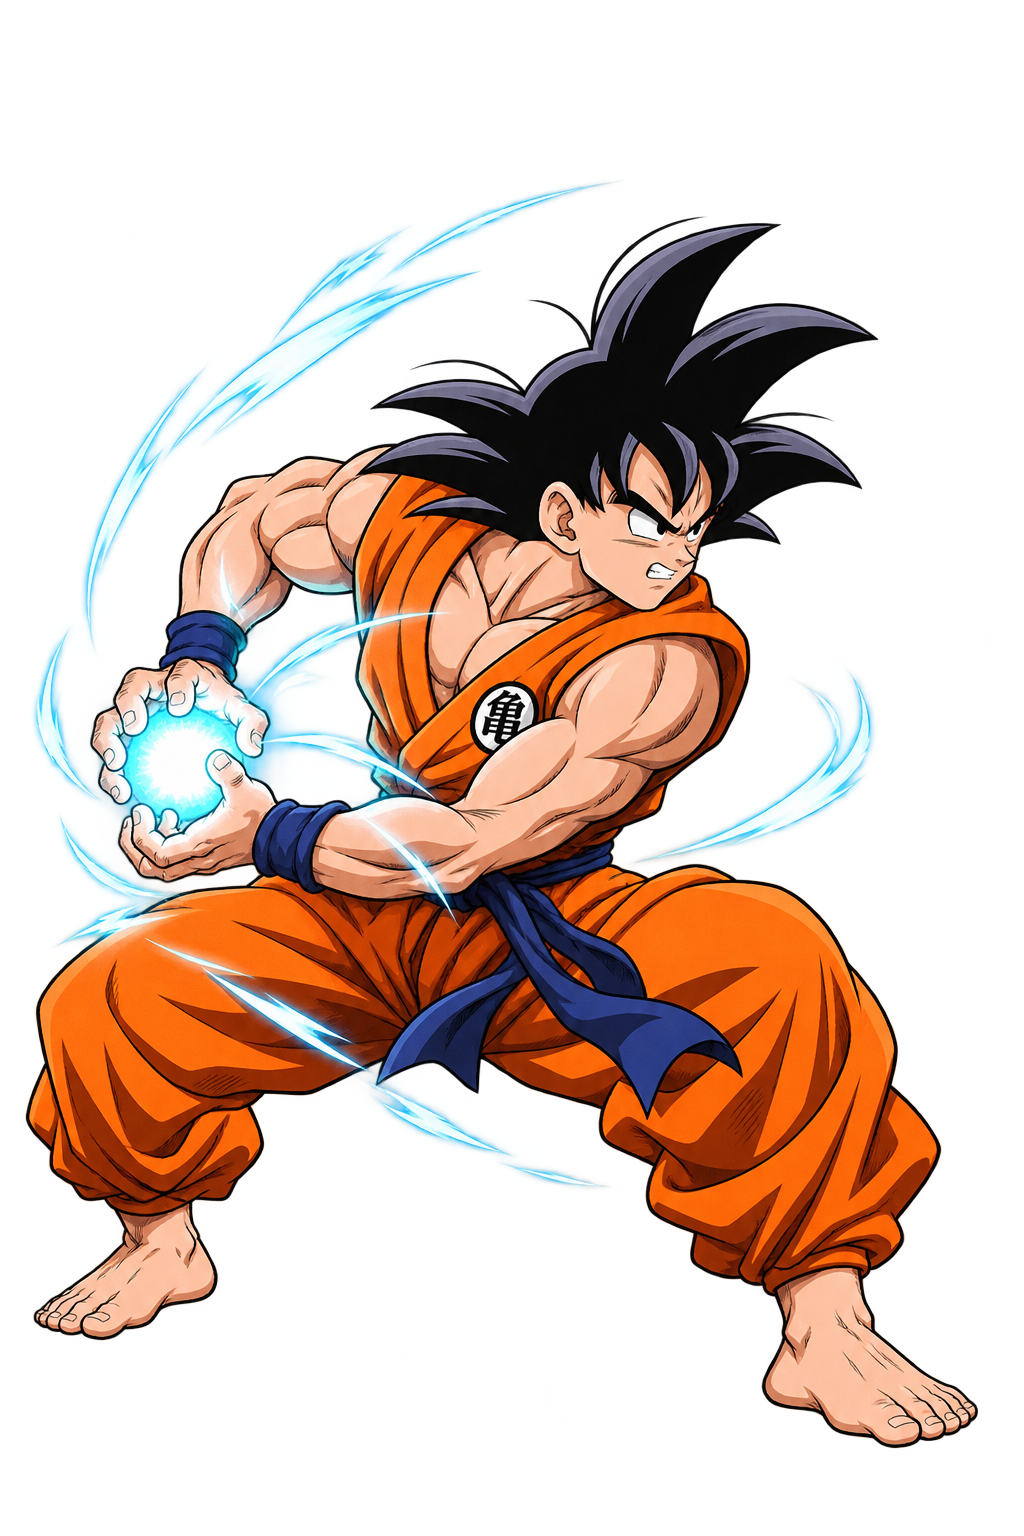
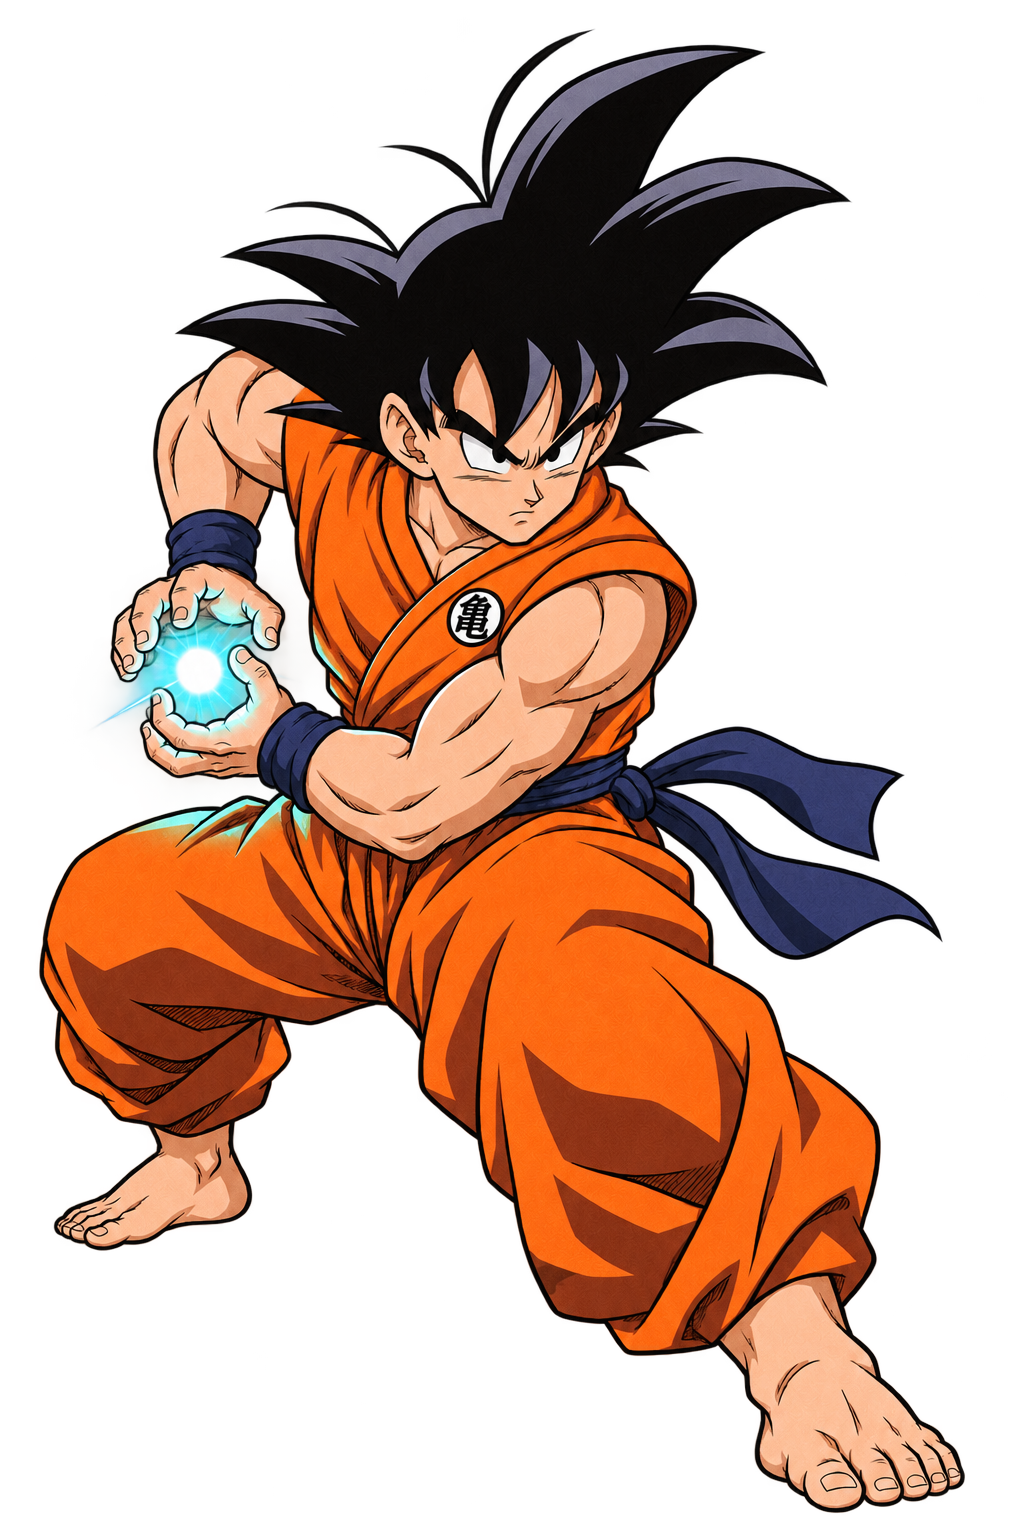
art: integrate approved Goku and Vegeta portraits

diff --git a/Assets/DragonIdle/Presentation/ChapterViews.cs b/Assets/DragonIdle/Presentation/ChapterViews.cs
@@ -8,7 +8,7 @@ namespace DragonIdle {
   readonly Dictionary<string,Texture2D> portraits=new Dictionary<string,Texture2D>();
   static string PortraitKey(int index){
    string id=Data.Cards[index].Id;
-   if(id=="goku-test"||id=="vegeta-test"||id=="piccolo-test")return "CharaOriImg/"+(id=="goku-test"?"0001":id=="vegeta-test"?"0002":"0003");
+   if(id=="piccolo-test")return "CharaOriImg/0003";
    return "V051/"+id+"-portrait";
   }
   Texture2D PortraitTexture(int index){return LoadCharacterTexture(PortraitKey(index));}

diff --git a/Assets/DragonIdle/Core/GameData.cs b/Assets/DragonIdle/Core/GameData.cs
@@ -4,7 +4,7 @@ using System.Linq;
 namespace DragonIdle {
  // Card identity and the expanded catalog live in CharacterCatalog.cs.
  public static partial class Data {
-  public const string Version="0.12.0";
+  public const string Version="0.12.1";
   public const string GameTitle="龙珠爆裂激斗";
   public const int FrontSlots=3,TeamSlots=6;
   // Keep the original storage identity when the public game title changes.

diff --git a/README.md b/README.md
@@ -1,10 +1,10 @@
 # 龙珠爆裂激斗 — Unity 技术 Demo
-当前源码 **v0.12.0 角色与六人编队预览版**。个人离线养成游戏的战斗核心与角色构筑原型。发布状态及本地验证见[本轮记录](Releases/v0.12.0.md)。
+当前源码 **v0.12.1 角色立绘更新**。个人离线养成游戏的战斗核心与角色构筑原型。发布内容见[本轮记录](Releases/v0.12.1.md)。
 GitHub：https://github.com/Icein61/dragonball-idle-unity
 
 ## 下载与试玩
 [查看 Windows x64 Demo 发布附件](https://github.com/Icein61/dragonball-idle-unity/releases)。
-下载对应版本的龙珠爆裂激斗-v0.12.0-Windows-x64.zip，完整解压后运行龙珠爆裂激斗.exe。
+下载对应版本的龙珠爆裂激斗-v0.12.1-Windows-x64.zip，完整解压后运行龙珠爆裂激斗.exe。
 需要Windows，不需要Unity、开发账号或联网。请保留Data目录及附带运行库，不要只复制EXE。
 
 启动时用聚气环显示徽章与角色立绘的实际异步加载进度。主页左侧显示修炼进度与通关状态，右侧提供剧情、奖励和设置。底栏进入人物志、编队、养成、装备和召唤。原剧情和试炼也可从“挑战”进入。
@@ -48,11 +48,11 @@ GitHub：https://github.com/Icein61/dragonball-idle-unity
 - [美术方向](docs/production/art-direction.md)
 - [工程与发布约定](docs/engineering/handoff.md)
 - [完整目标验收场景](docs/verification/acceptance.md)
-- [本版本验证结果](Releases/v0.12.0.md)
+- [当前验证与交付记录](docs/STATUS.md)
 
 后续每个可玩版本仍需对应源码提交、标签、版本说明与可运行PC包。不要提交Library或Builds缓存。
 
-新版简表中的九张上线卡均已接入实战。图鉴展示表内技能原文和实战数值，沿用现有立绘与战斗图集。可见体验待验收。
+新版简表中的九张上线卡均已接入实战。图鉴展示表内技能原文和实战数值，悟空与贝吉塔已换为确认后的手绘立绘。可见体验待验收。
 
 角色页已升级暖白圆角主题、四列大卡与独立详情屏，当前有效属性可展开拆解。返回保留浏览状态及键盘焦点；筛选可单独清除，选卡不重建列表。第二阶段编队、养成、装备也已接入，角色上下文与装配比较见docs/engineering/workshop-v061.md。详见docs/engineering/gallery-v060.md。可见观感与试听仍未验收。
 

diff --git a/docs/design/decisions.md b/docs/design/decisions.md
@@ -162,3 +162,7 @@ v0.10.0 将原创样式扩展到人物志、编队、养成、装备和召唤。
 v0.11.0 用原创运行时组件替换启动解包 UI。十一项旧界面资产退出 Unity Resources，来源清单及旧版本历史保留。启动页显示当前加载类型、已处理数量和比例。资源请求返回后才更新计数。缺失资源计入已处理并在主页提示，人物志用现有占位内容。取消加载后，迟到的请求结果不进入缓存也不改变页面。
 
 v0.12.0 逐格对照新版简表，九个上线 CardId 与目录完全一致，当前没有额外卡可删。阵位由三前四后改为三前后三，schema4 迁移七人当前队和预设，保留身份、成长、装备、两池保底及可迁移队长。技能页集中显示四类原文、队长技和出招规则，去掉旧战术建议、重复队伍适配和代理参数大段说明。立绘沿用当前版本。
+
+## 悟空、贝吉塔立绘确认
+
+用户接受悟空高领口、左胸龟仙流圆徽的蓄气稿，以及贝吉塔无能量波的悬空伸掌稿。两张接入 v0.12.1 的独立立绘。比克双手结构获认可，姿势改为冷静张臂保护，卡面仅画比克，等待新稿确认。

diff --git a/docs/STATUS.md b/docs/STATUS.md
@@ -3,6 +3,8 @@
 
 ## 当前阶段
 
+v0.12.1 接入已确认的悟空与贝吉塔立绘。比克张臂保护的新稿进入独立评审，游戏内当前比克仍读取原概念图。
+
 v0.12.0 已接入新版简表中的九张上线卡。运行名单与简表一致，图鉴显示表内稀有度、时期和技能原文，技能数值由实战实现补充。双方前后三席各对齐，允许保留空位。旧档迁移优先保留原第七位队长，多出的普通队员携带原装备与成长回到候补。沿用现有立绘，可见验收待进行。
 
[1 lines of base64/hex data omitted]

diff --git a/Releases/v0.12.1.md b/Releases/v0.12.1.md
@@ -1,0 +1,5 @@
+# v0.12.1 悟空与贝吉塔立绘
+
+- 悟空「全新的故事」采用赛亚人篇早期的蓄气构图，收高橙色道服领口，左胸使用龟仙流圆徽。
+- 贝吉塔「激烈的超级精英」采用初到地球的探测器和战斗服，悬空伸掌留出完整动作轮廓。
+- 启动页预加载、人物志、编队和其他角色展示共用这两张独立手绘立绘。实际画面待可见验收。
